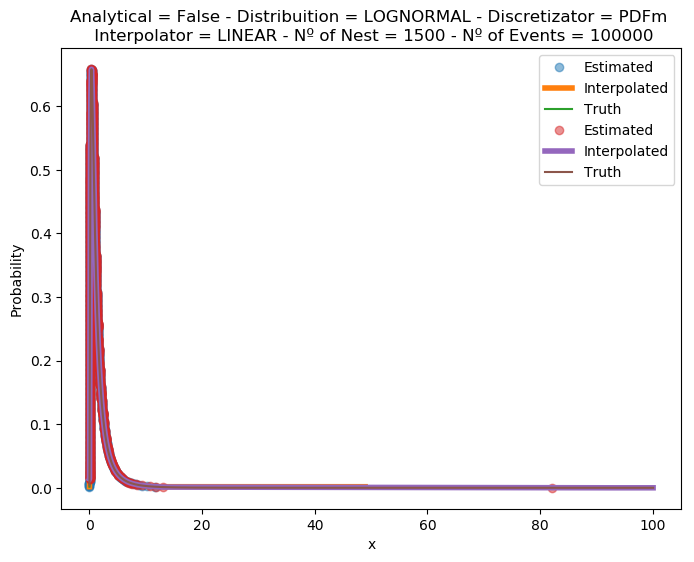
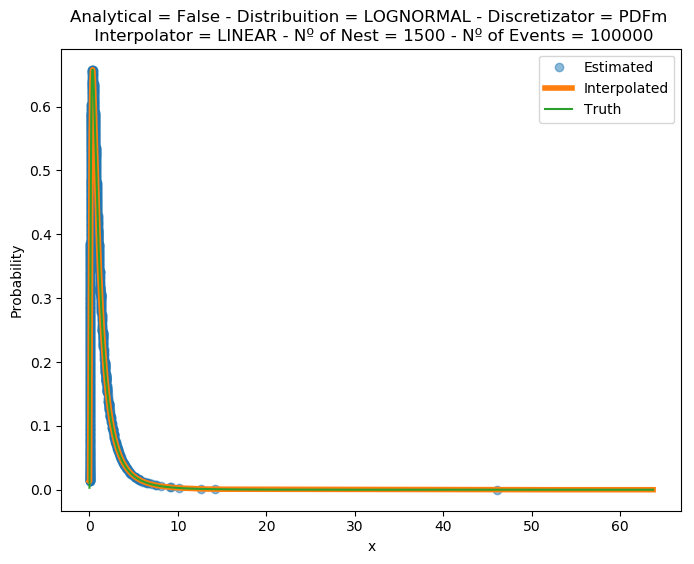
Bug fixed

diff --git a/run.py b/run.py
@@ -36,9 +36,9 @@ if __name__ == '__main__':
     outlier = 0
     curve = 3           # 1:5
     #plotKind = 'Linspace CDFm PDFm iPDF1 iPDF2'.split()
-    plotKind = 'PDFm'.split()
+    plotKind = 'Linspace PDFm'.split()
     plotNest = [10,50,200,500,1500]
-    analitica = True
+    analitica = True #True
     #-------------------------------------------------------
     np.random.seed(seed)    #seed = np.random.get_state()  np.random.set_state(seed)
     
@@ -181,7 +181,7 @@ if __name__ == '__main__':
                           %(analitica,distribuition.upper(),kind,interpolator.upper(),nest,data))
                 plt.savefig('./Figures/' + kind + '/MIDLEPLOT_' + kind + '_' + str(analitica).upper() + '_' + distribuition.upper() + '_' + interpolator.upper() + '_' + str(nest) + '_' + str(data) + '.png', bbox_inches='tight')
                 
-   # fig, ax1 = plt.subplots(figsize=(8,6),dpi=100)
+    fig, ax1 = plt.subplots(figsize=(8,6),dpi=100)
     for kind in kinds:
         plt.plot(npts,areaROIord[kind],'-o',label = kind, ms = 3)
     plt.yscale('log')

diff --git a/methodDisc.py b/methodDisc.py
@@ -82,7 +82,8 @@ def PDFm(data,nPoint,dist = 'normal', mu = 0, sigma = 1,analitica = False,lim = 
             X2 = np.linspace(mu,sup,int(1e6))
             Y2 = norm.pdf(X2, loc = mu, scale = sigma)
             interp = interp1d(Y2,X2)
-            y2 = np.flip(y1,0)
+            y2 = np.linspace(Y2[0],Y2[-1],nPoint//2+1)
+            #y2 = np.flip(y1,0)
             x2 = interp(y2)
         elif dist == 'lognormal':
            
@@ -97,7 +98,8 @@ def PDFm(data,nPoint,dist = 'normal', mu = 0, sigma = 1,analitica = False,lim = 
             X2 = np.linspace(mode,sup,int(1e6))
             Y2 = lognorm.pdf(X2, sigma, loc = 0, scale = np.exp(mu))
             interp = interp1d(Y2,X2)
-            y2 = np.flip(y1,0)
+            y2 = np.linspace(Y2[0],Y2[-1],nPoint//2+1)
+            #y2 = np.flip(y1,0)
             x2 = interp(y2)
         x = np.concatenate([x1[:-1],x2])
     
